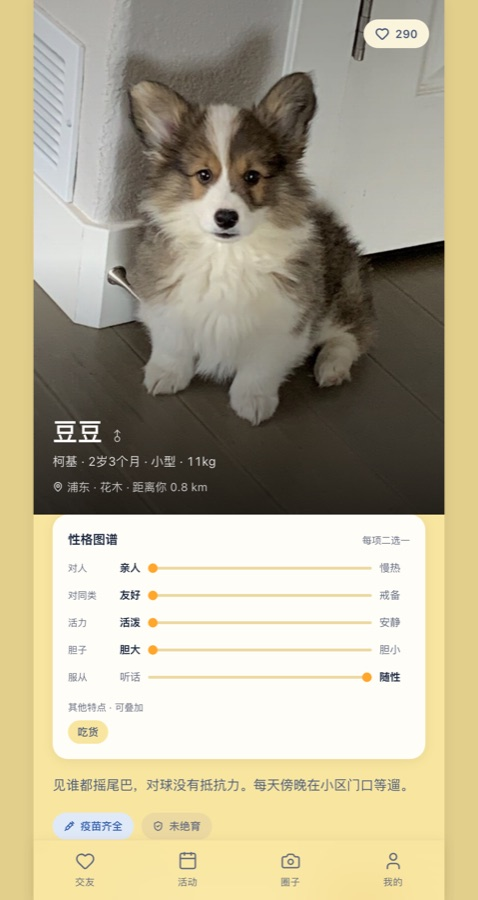
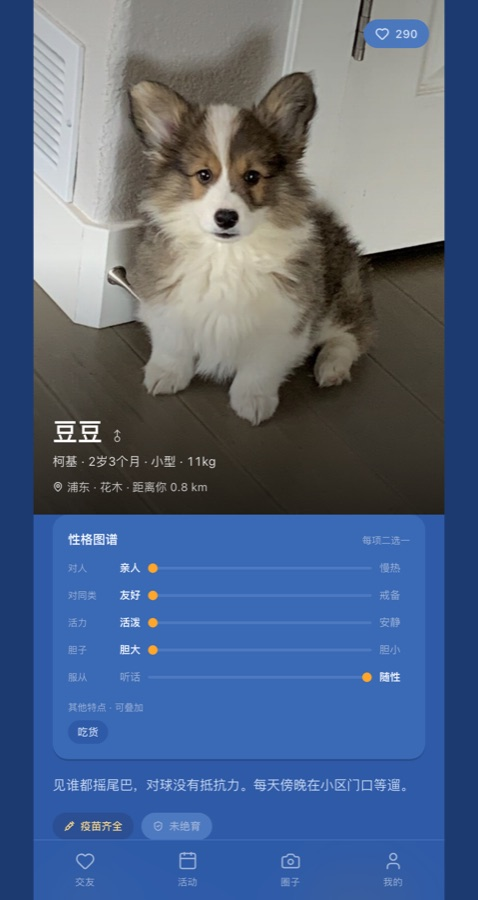
style: 背景用 AMALFI 深蓝，选中态用 CITRUS 饱和黄
- 画布 #2E5AA7（色卡里的深蓝），卡片 #3A69B5 亮一档
- 选中/主行动 #FFA62B 饱和黄，配深色文字
- 文字改为浅色 #F5F8FF（在蓝底上 7.5:1）
- 链接与强调用色卡里的奶油黄 #FFD98A
- 浅标记用 SEA BREEZE #86C5FF
- 底栏、chip、面板全部跟随深蓝体系

diff --git a/src/app/globals.css b/src/app/globals.css
@@ -2,31 +2,27 @@
 
 /* ── 设计变量：改这里就能整体换肤 ───────────────────────── */
 @theme {
-  /* ── 严格取自色卡的四个颜色 ────────────────────────────
-     CITRUS ZEST  #FFA62B  → 主行动 / 选中
-     SEA BREEZE   #86C5FF  → 辅助面 / 浅标记
-     AMALFI TILE  #2E5AA7  → 文字强调 / 链接 / 认证
-     CREAM GELATO #F8E6A0  → 画布
-     另外补两个中性色（文字、卡片），否则整套无法阅读
+  /* ── 深蓝底 + 饱和黄作选中 ───────────────────────────────
+     背景 AMALFI TILE #2E5AA7，选中 CITRUS ZEST #FFA62B
      ──────────────────────────────────────────────────── */
-  --color-canvas: #f8e6a0; /* CREAM GELATO：画布 */
-  --color-cream: #f8e6a0; /* 旧名兼容 */
-  --color-surface: #fffdf7; /* 卡片：奶白，比纯白更配 */
-  --color-surface-2: #fff8e0; /* 卡片里的块 */
-  --color-ink: #15223b; /* 正文：取自 AMALFI 的深色版 */
-  --color-ink-soft: #4c5b7a;
-  --color-ink-mute: #626a7e;
-  --color-line: #ecd9a1;
-  --color-brand: #ffa62b; /* CITRUS ZEST：填充 / 选中 */
-  --color-brand-soft: #ffe6bd;
-  --color-on-brand: #15223b; /* 橙底上的文字 */
-  --color-accent: #2e5aa7; /* AMALFI TILE：文字强调 */
-  --color-accent-soft: #dfe9f8;
+  --color-canvas: #2e5aa7; /* AMALFI TILE：画布 */
+  --color-cream: #2e5aa7; /* 旧名兼容 */
+  --color-surface: #3a69b5; /* 卡片：比画布亮一档 */
+  --color-surface-2: #4776c0; /* 卡片里的块 */
+  --color-ink: #f5f8ff; /* 主文字：浅色 */
+  --color-ink-soft: #c9d8f2;
+  --color-ink-mute: #9fb4d8;
+  --color-line: #4d79c0;
+  --color-brand: #ffa62b; /* CITRUS ZEST：选中 / 主行动 */
+  --color-brand-soft: #6b5312; /* 深琥珀软底 */
+  --color-on-brand: #241a00; /* 橙底上的文字 */
+  --color-accent: #ffd98a; /* 深底上的强调文字 */
+  --color-accent-soft: #2b4f92;
   --color-sea: #86c5ff; /* SEA BREEZE */
-  --color-sea-soft: #e5f1ff;
-  --color-sand: #f8e6a0;
-  --color-mint: #2e5aa7;
-  --color-mint-soft: #dfe9f8;
+  --color-sea-soft: #2b4f92;
+  --color-sand: #6b5312;
+  --color-mint: #ffd98a;
+  --color-mint-soft: #2b4f92;
   --color-white: #ffffff;
 
 
@@ -46,8 +42,8 @@
   --text-stat: 21px;
   --text-page: 26px;
 
-  --shadow-soft: 0 1px 6px rgba(90, 70, 20, 0.06);   /* 贴地的小块 */
-  --shadow-card: 0 2px 12px rgba(90, 70, 20, 0.10);  /* 卡片 */
+  --shadow-soft: 0 1px 0 rgba(255, 255, 255, 0.06);   /* 贴地的小块 */
+  --shadow-card: 0 2px 0 rgba(0, 0, 0, 0.14);  /* 卡片 */
   --shadow-float: 0 -8px 40px rgba(0, 0, 0, 0.15);   /* 浮层 */
 
   /* 动效曲线：进场"快起慢收"，退场"慢起快收"，两者不能共用一条 */
@@ -64,7 +60,7 @@
 }
 
 body {
-  background-color: #e2cf8c;
+  background-color: #1c3a70;
   color: var(--color-ink);
   font-family: var(--font-sans);
   -webkit-font-smoothing: antialiased;
